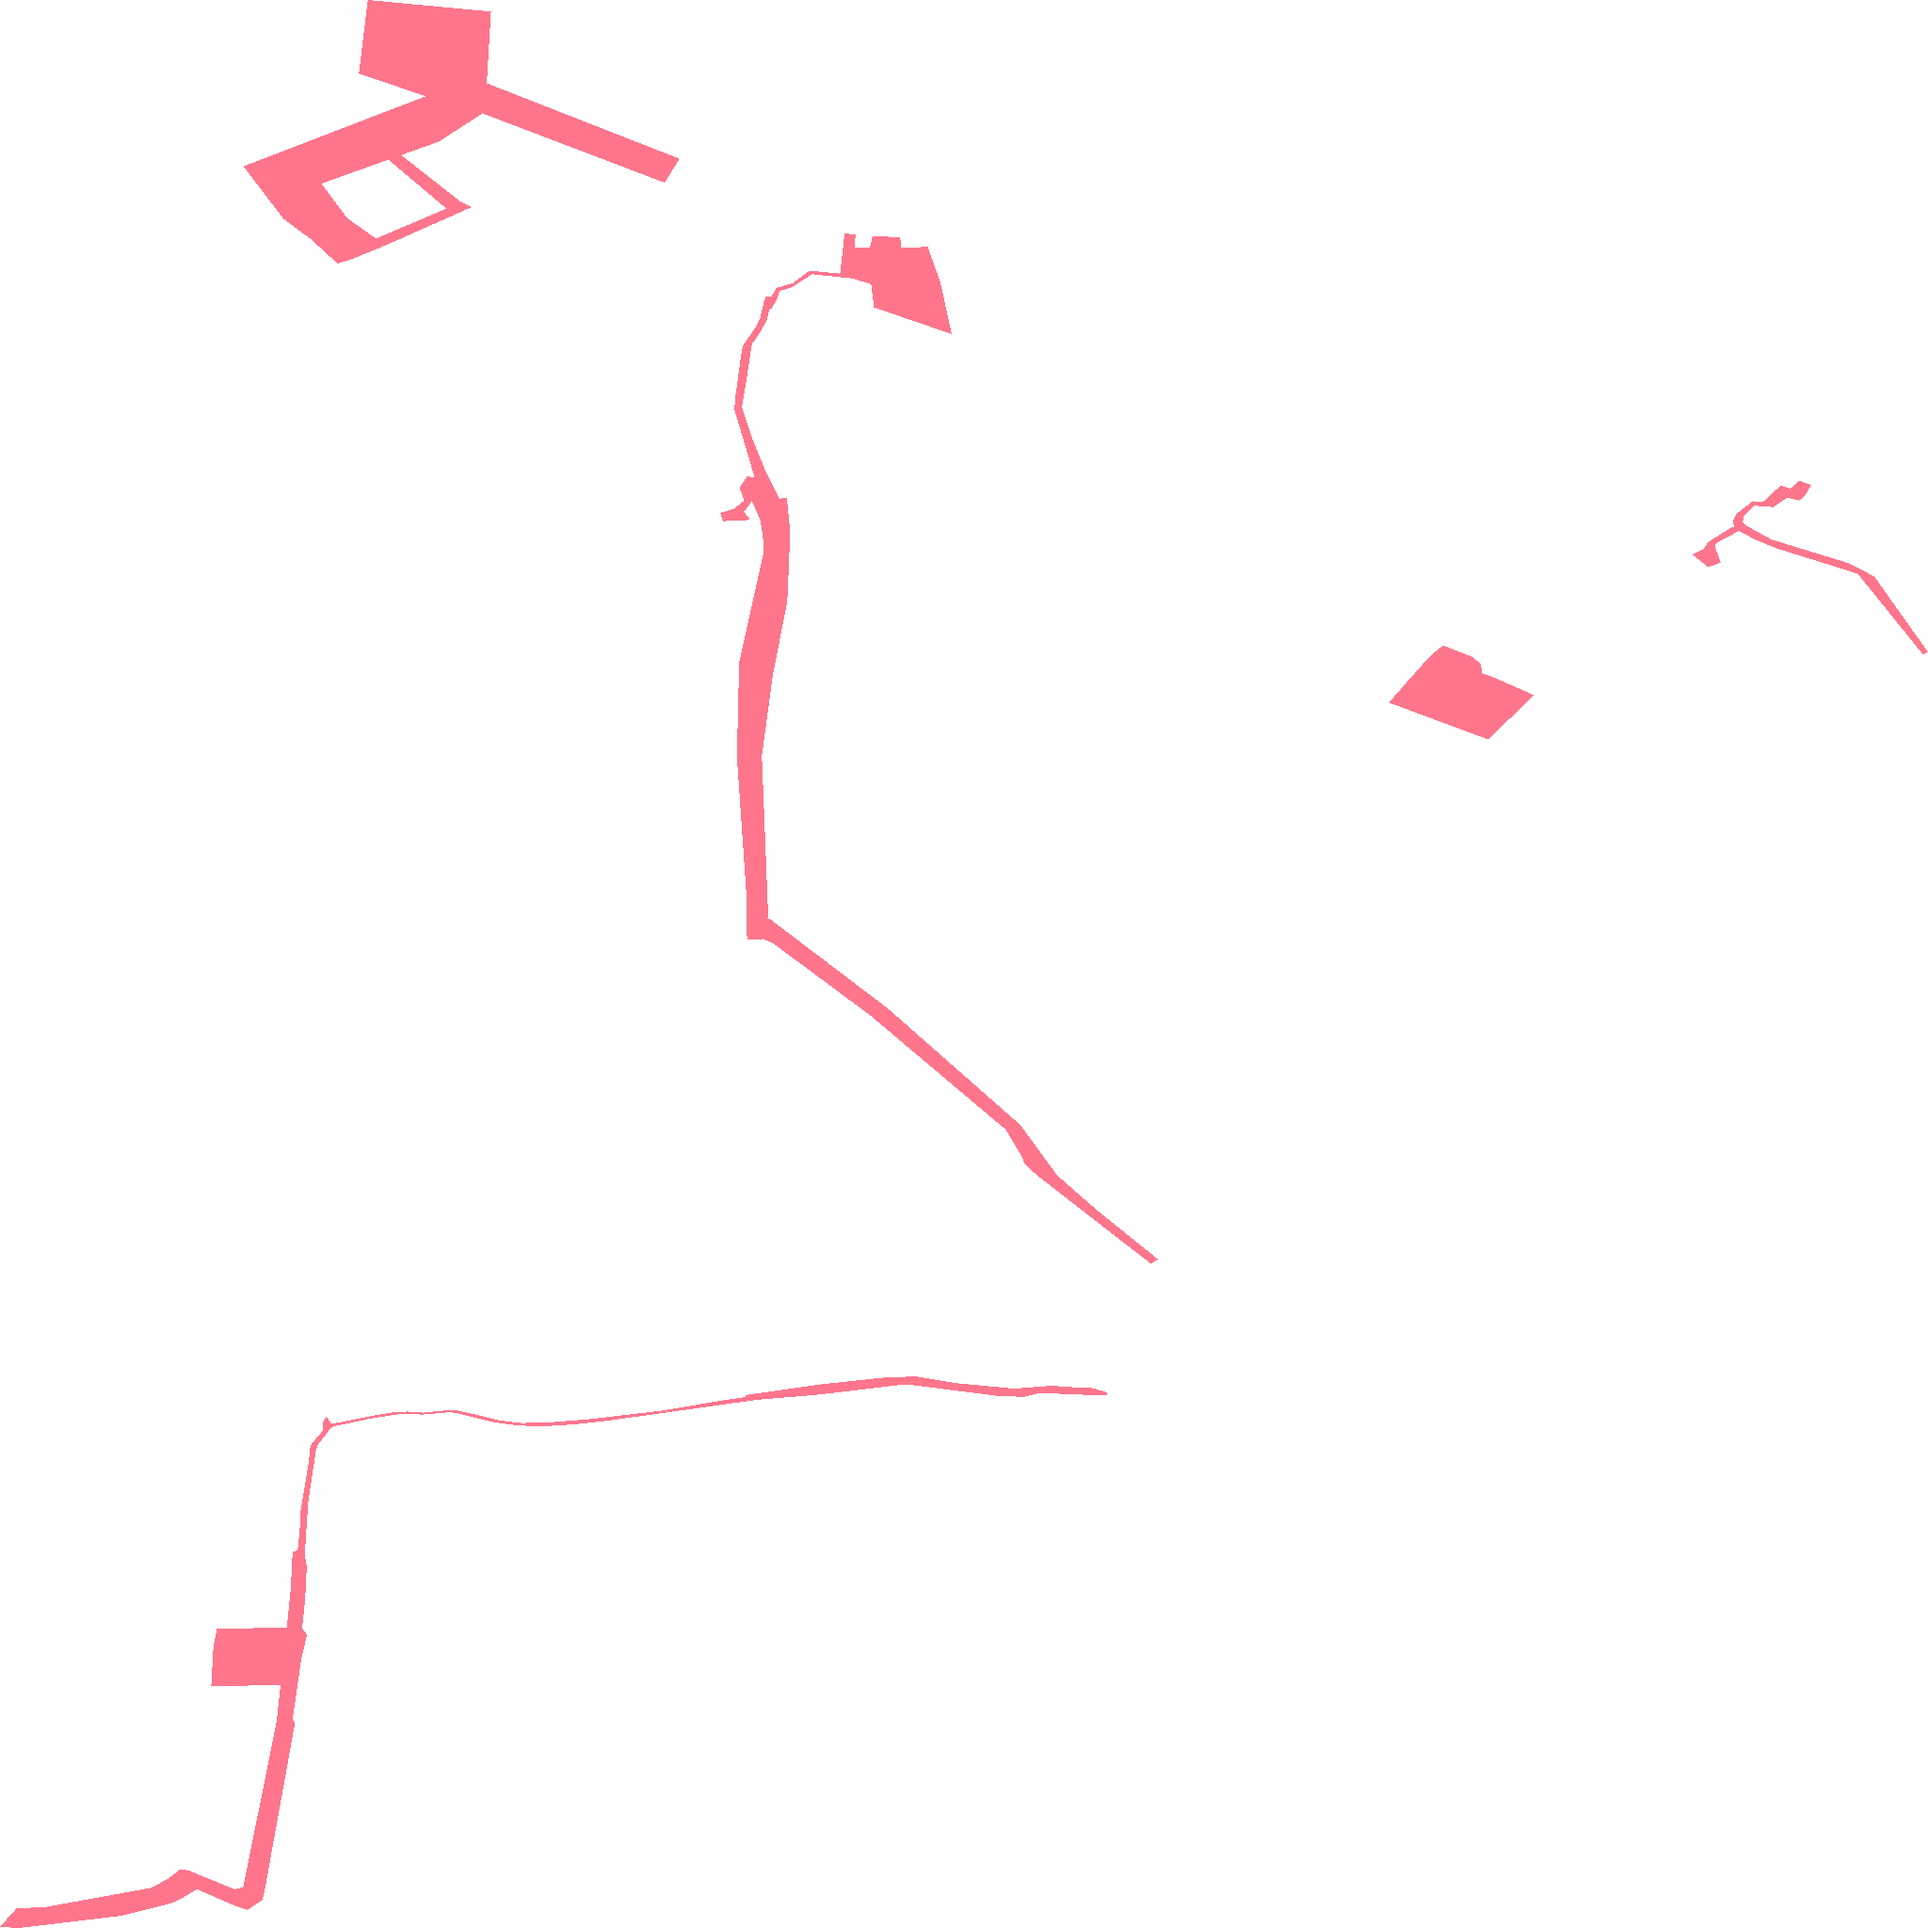
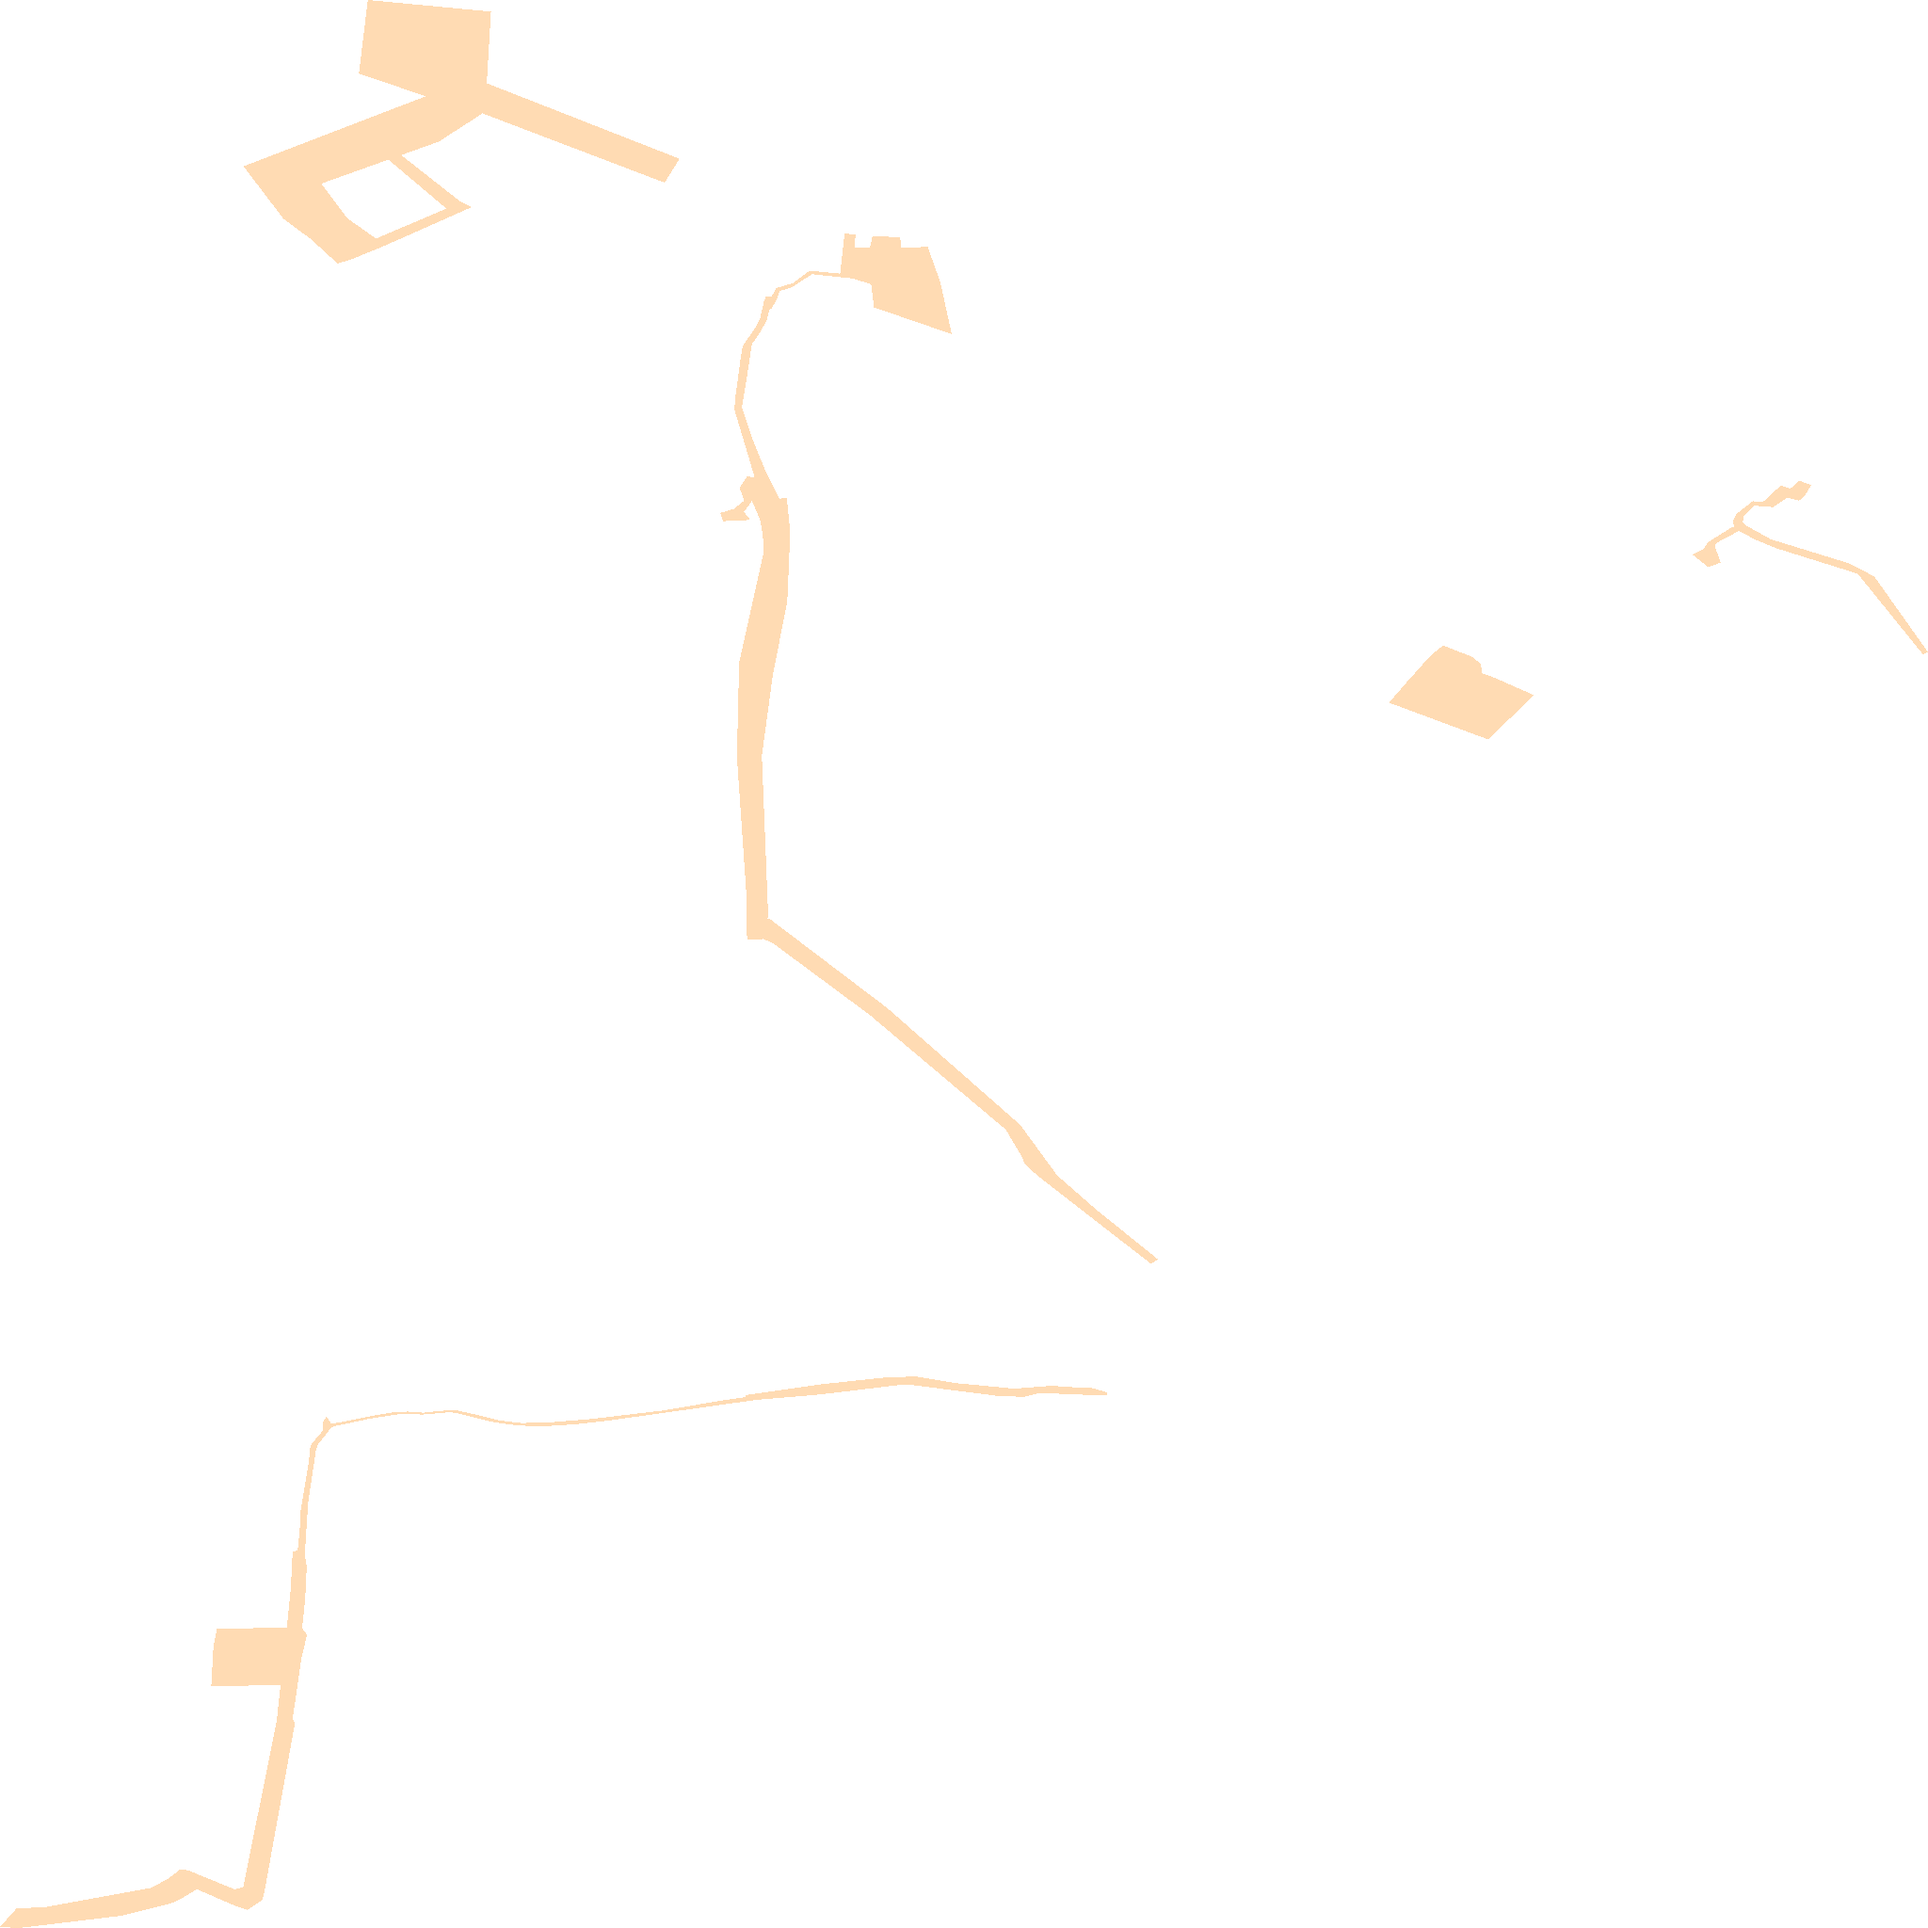
Karte sp_614

diff --git a/sp_614.html b/sp_614.html
@@ -60,7 +60,7 @@
         }
         .custom-control2 {
             position: absolute;
-            bottom: -320px;
+            top: 110px;
             left: 0px;
             background: white;
             padding: 5px;
@@ -77,24 +77,6 @@
         .custom-control:hover, .custom-control2:hover {
             background-color: #f0f0f0 !important;
         }
-        .leaflet-control-geocoder-icon {
-            background-color: white !important;
-            color: grey !important;
-            border: none !important;
-            width: 20px;
-            height: 20px;
-            display: flex;
-            justify-content: center;
-            align-items: center;
-            font-size: 15px;
-            font-family: 'Montserrat', sans-serif;
-            box-shadow: 0 1px 3px rgba(0, 0, 0, 0.3);
-            border-radius: 2px;
-            cursor: pointer;
-        }
-        .leaflet-control-geocoder-icon:hover {
-            background-color: #f0f0f0 !important;
-        }
         .custom-marker {
             width: 15px;
             height: 15px;
@@ -104,8 +86,8 @@
         }
         #legend {
             position: absolute;
-            bottom: 80px;
-            left: 55px;
+            top: 160px;
+            left: 10px;
             display: none;
             z-index: 1000;
             background: white;
@@ -128,8 +110,9 @@
 <body>
     <div id="map"></div>
     <div id="legend">
-        <div><span style="display:inline-block; width:20px; height:10px; background:#FF7F00; margin-right:5px;"></span>Ausbauphase 1: Ausbau bei ausreichender Nachfrage</div>
+        <div><span style="display:inline-block; width:20px; height:10px; background:#FF7F00; margin-right:5px;"></span>Ausbauphase 1: Glasfasernetz vorhanden oder geplant</div>
         <div><span style="display:inline-block;width:20px; height:10px; background:#00143C; margin-right:5px;"></span>Ausbauphase 2: Interessenbekundung möglich</div>
+        <div><span style="display:inline-block;width:20px; height:10px; background:#FFC17D; margin-right:5px;"></span>Ausbauphase 3: Gefördertes Ausbaugebiet </div>
     </div>
     <script>
     const bounds = [[50.52571744, 8.136660927], [50.567953524, 8.178536749]];
@@ -166,20 +149,6 @@
         });
         map.addControl(new legendControl());
         const markerLayerGroup = L.layerGroup().addTo(map);
-        const geocoder = L.Control.geocoder({
-            defaultMarkGeocode: false
-        })
-            .on('markgeocode', function (e) {
-                markerLayerGroup.clearLayers();
-                const latlng = e.geocode.center;
-                const customMarker = L.divIcon({
-                    className: 'custom-marker'
-                });
-                const marker = L.marker(latlng, { icon: customMarker });
-                markerLayerGroup.addLayer(marker);
-                map.fitBounds(bounds);
-            })
-            .addTo(map);
     </script>
 </body>
 </html>
